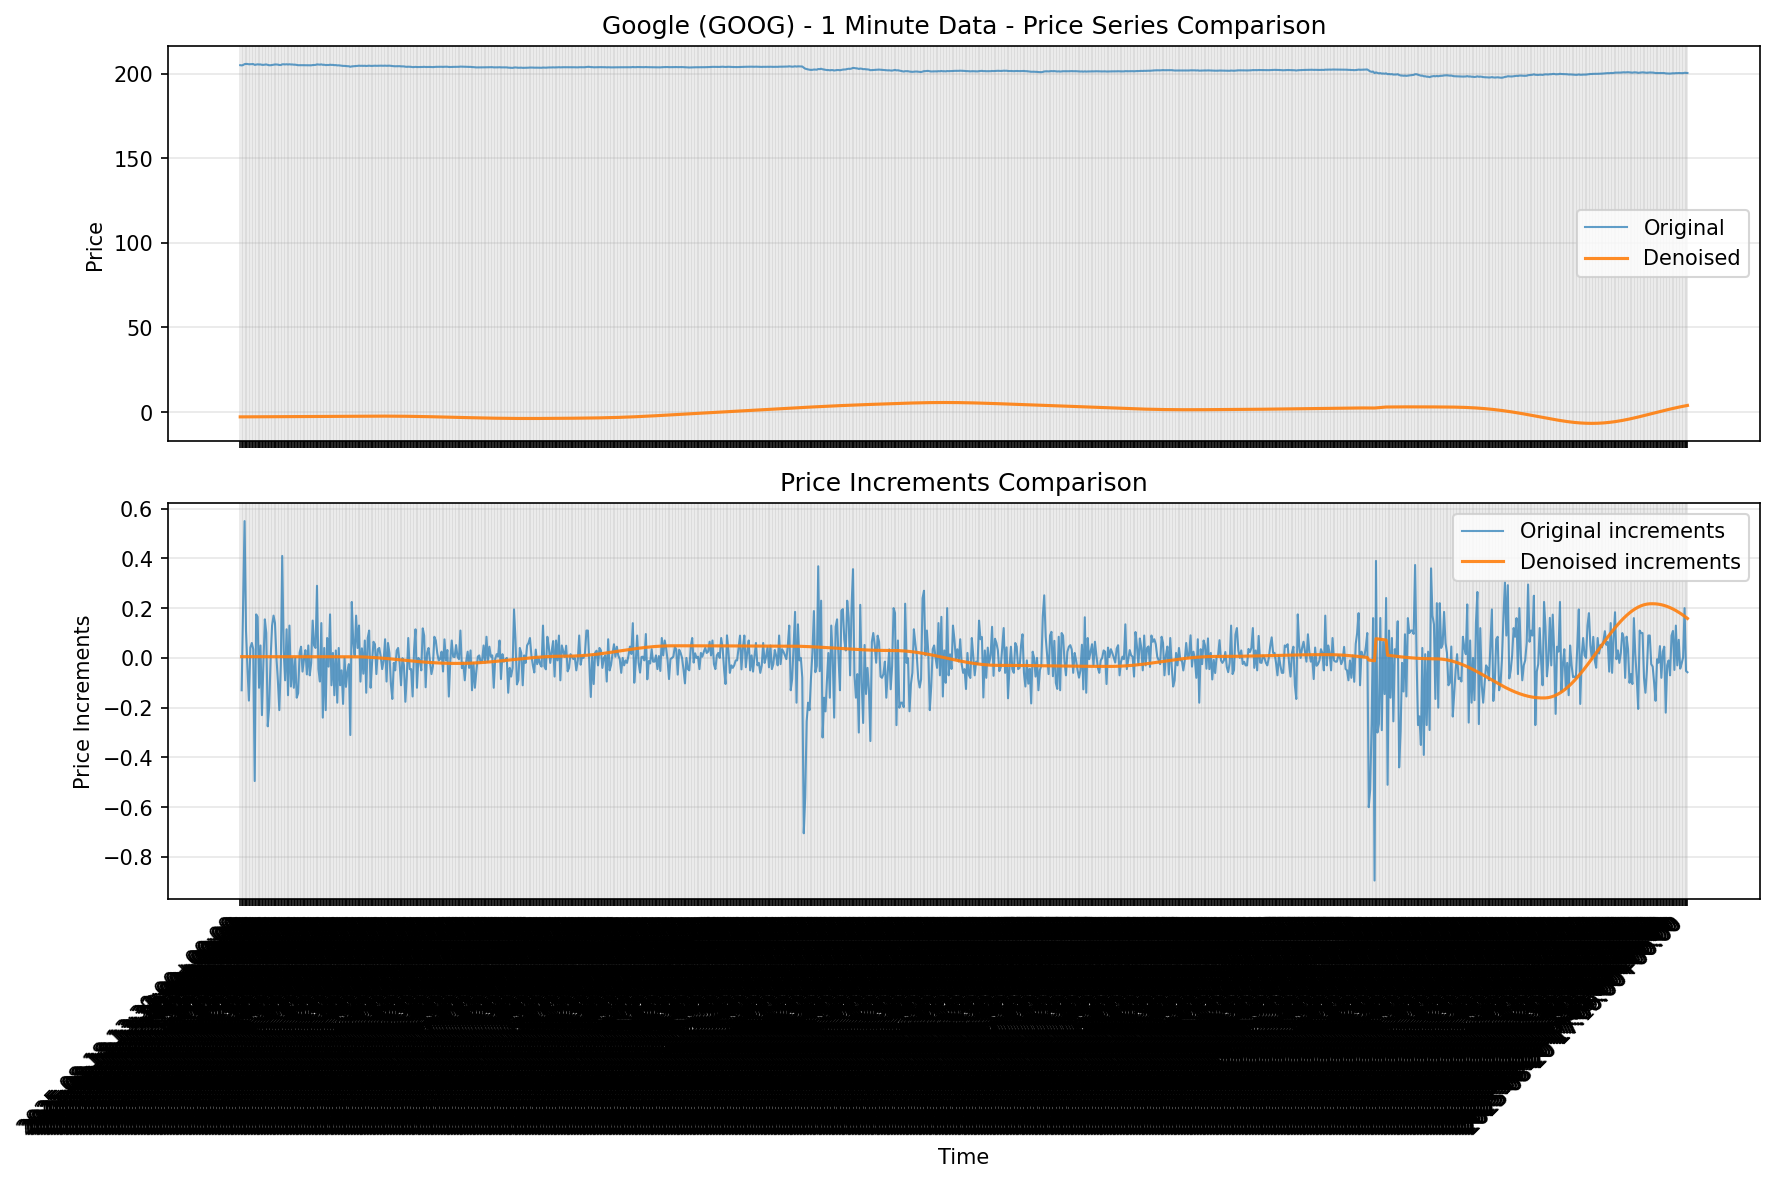
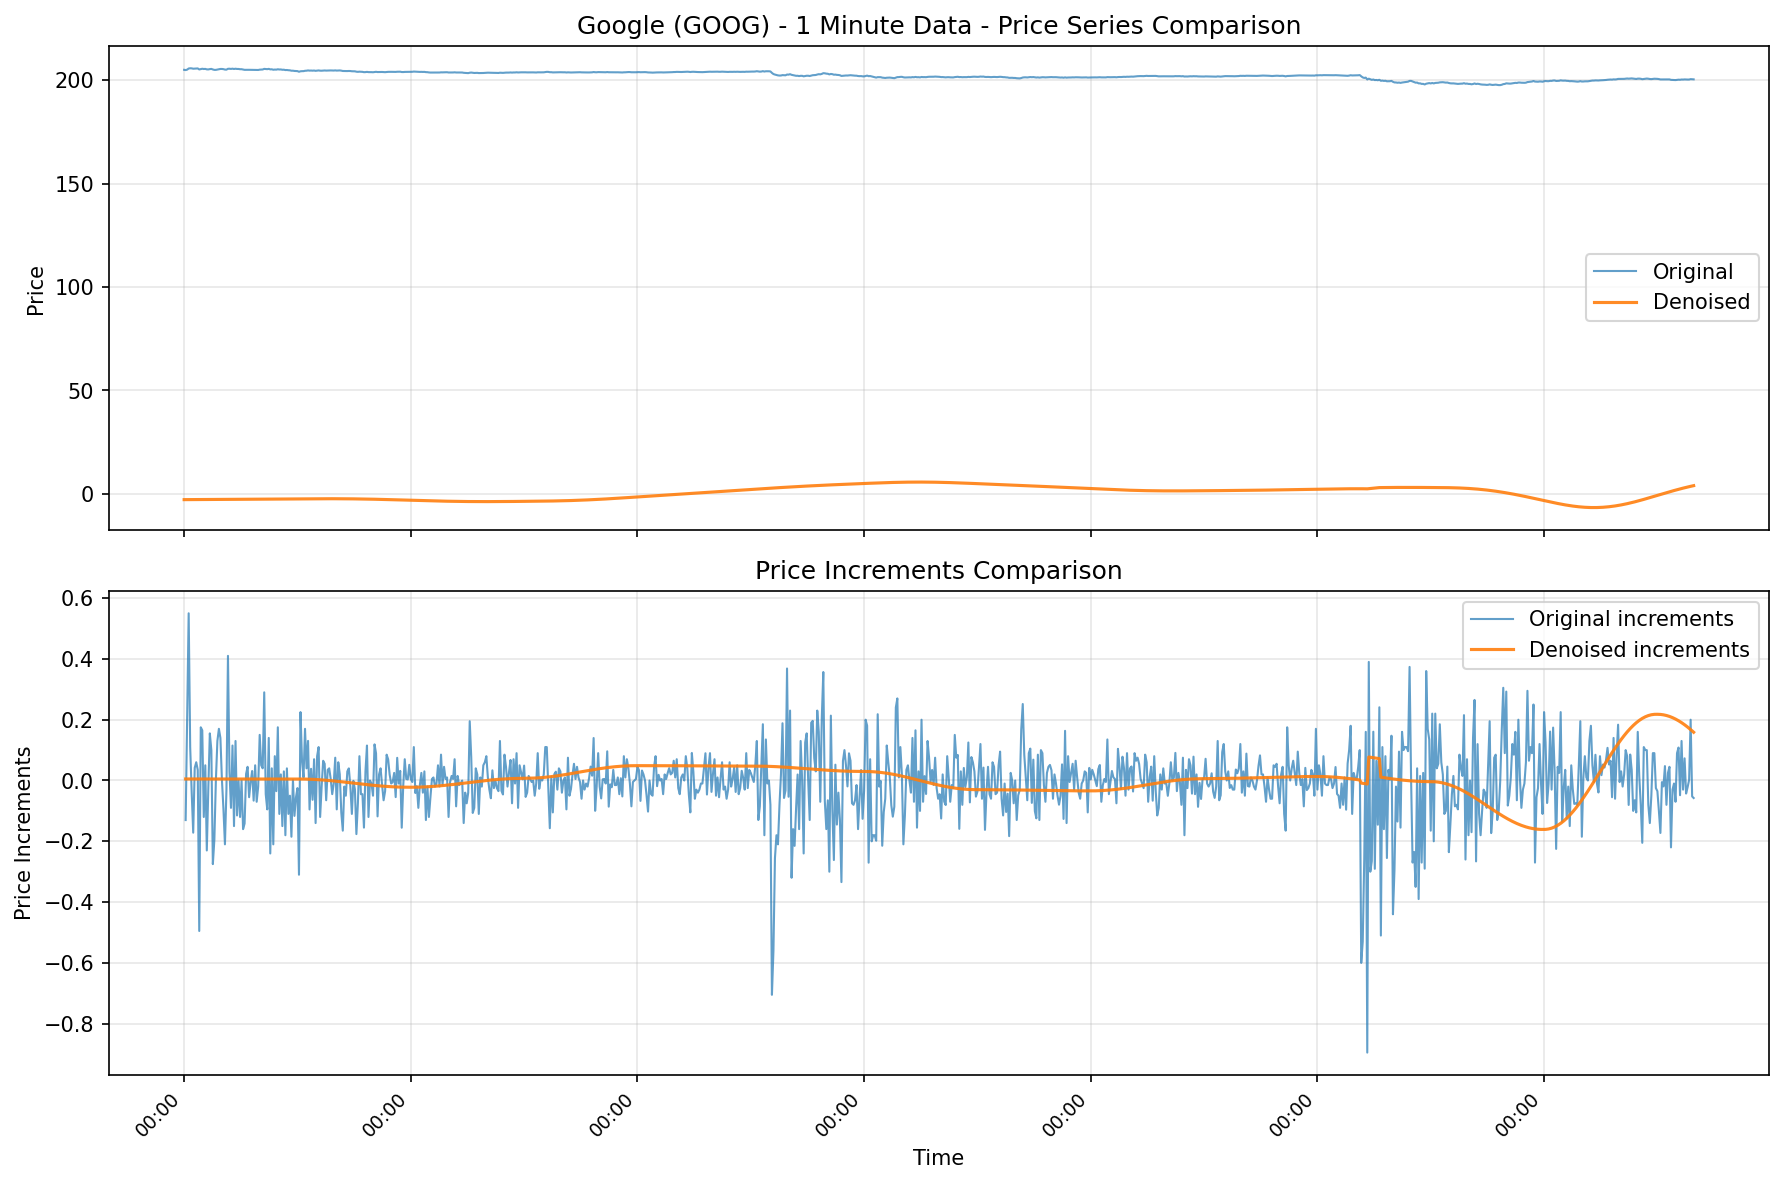
Fix timestamp display in Google plot
- Reduced timestamp labels from 1000+ to max 8 to prevent overcrowding
- Added proper timestamp formatting (HH:MM format)
- Fixed black blob issue below graphs caused by overlapping labels
- Improved x-axis readability and visual clarity

diff --git a/examples/plot_real_data.py b/examples/plot_real_data.py
@@ -41,8 +41,19 @@ def create_comparison_plot(original_file: str, denoised_file: str, title: str, o
     ax2.legend()
     ax2.grid(True, alpha=0.3)
     
-    # Rotate x-axis labels for better readability
-    plt.setp(ax2.get_xticklabels(), rotation=45, ha='right')
+    # Format x-axis timestamps for better readability
+    # Show fewer timestamps to avoid overcrowding
+    ax2.xaxis.set_major_locator(plt.MaxNLocator(8))  # Show max 8 timestamps
+    plt.setp(ax2.get_xticklabels(), rotation=45, ha='right', fontsize=9)
+    
+    # Format timestamp labels to be more readable
+    def format_timestamp(x, pos):
+        try:
+            return pd.to_datetime(x).strftime('%H:%M')
+        except:
+            return str(x)
+    
+    ax2.xaxis.set_major_formatter(plt.FuncFormatter(format_timestamp))
     
     plt.tight_layout()
     plt.savefig(output_file, dpi=150, bbox_inches='tight')
